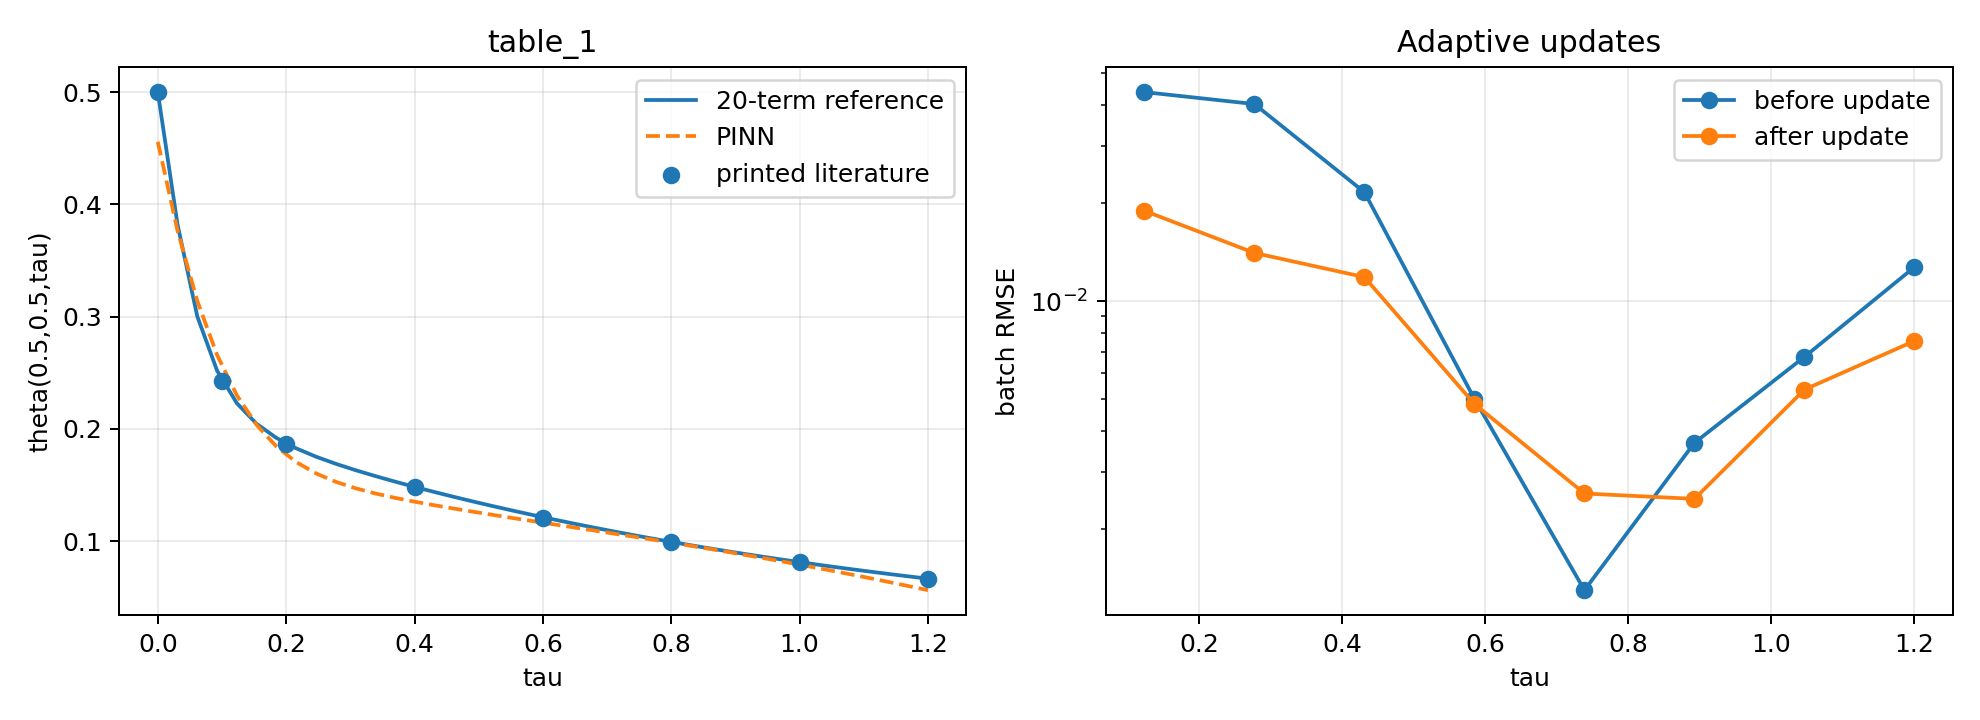
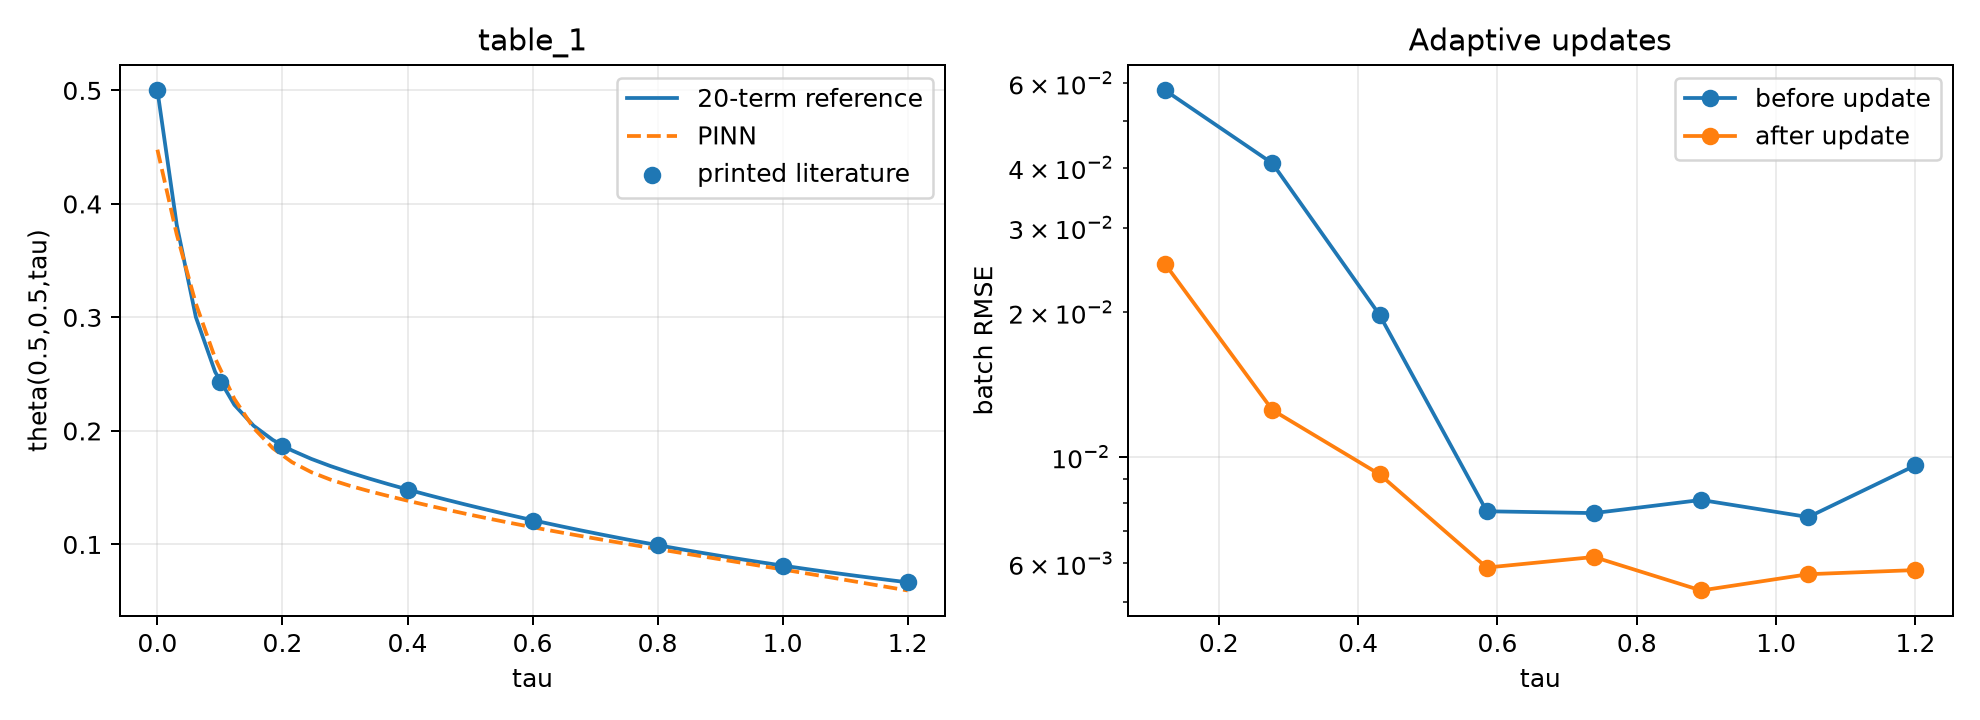
Add adaptive sensor and error comparison graphs

diff --git a/DeepXDE_1D/online_heat_pinn.py b/DeepXDE_1D/online_heat_pinn.py
@@ -22,7 +22,7 @@ import numpy as np
 
 
 DEFAULT_REFERENCE_DIR = Path(
-    r"C:\Users\jblec\Technion\Spring_2026\Machine Learning\Project\Paper-result\mdpi_416_tables"
+    r"C:\Users\jblec\Technion\Spring_2026\Machine Learning\Project\Literature_result\mdpi_416_tables"
 )
 
 # Paper cases: eta_i(tau) = exp(-d_i tau).
@@ -178,6 +178,7 @@ def train_adaptively(cfg: Config, assimilation_points, assimilation_values):
         iterations=cfg.baseline_iterations,
         display_every=max(1, cfg.baseline_iterations // 5),
     )
+    baseline_prediction = model.predict(assimilation_points)
 
     history = []
     batches = np.array_split(
@@ -214,7 +215,7 @@ def train_adaptively(cfg: Config, assimilation_points, assimilation_values):
             f"update {update:02d}, tau={new_points[-1, 2]:.4f}: "
             f"RMSE {before_rmse:.6g} -> {after_rmse:.6g}"
         )
-    return model, history
+    return model, history, baseline_prediction
 
 
 def save_results(
@@ -223,6 +224,7 @@ def save_results(
     history,
     assimilation_points,
     assimilation_values,
+    baseline_prediction,
     literature_points,
     literature_values,
     output_dir: Path,
@@ -232,6 +234,20 @@ def save_results(
     literature_prediction = model.predict(literature_points)
     literature_rmse = rmse(literature_values, literature_prediction)
 
+    np.savetxt(
+        output_dir / "baseline_vs_adaptive_center.csv",
+        np.column_stack(
+            (
+                assimilation_points[:, 2],
+                assimilation_values[:, 0],
+                baseline_prediction[:, 0],
+                assimilation_prediction[:, 0],
+            )
+        ),
+        delimiter=",",
+        header="tau,reference_theta,baseline_pinn_theta,adaptive_pinn_theta",
+        comments="",
+    )
     np.savetxt(
         output_dir / "literature_vs_pinn.csv",
         np.column_stack(
@@ -287,6 +303,69 @@ def save_results(
     fig.tight_layout()
     fig.savefig(output_dir / "paper_reference_comparison.png", dpi=180)
     plt.close(fig)
+
+    # Figure analogous to the streaming-sensor map. The background is the
+    # adaptive PINN slice at Y=0.5; reference observations exist only at X=0.5.
+    x_grid = np.linspace(0.0, 1.0, 161)
+    tau_grid = np.linspace(0.0, 1.2, 161)
+    xx, tt = np.meshgrid(x_grid, tau_grid)
+    slice_points = np.column_stack(
+        (xx.ravel(), np.full(xx.size, 0.5), tt.ravel())
+    )
+    theta_slice = model.predict(slice_points).reshape(xx.shape)
+    fig, ax = plt.subplots(figsize=(8.5, 5.2))
+    image = ax.contourf(xx, tt, theta_slice, levels=40, cmap="magma")
+    colorbar = fig.colorbar(image, ax=ax)
+    colorbar.set_label("Adaptive PINN theta at Y=0.5")
+    batches = np.array_split(
+        np.arange(len(assimilation_points)),
+        int(np.ceil(len(assimilation_points) / cfg.points_per_update)),
+    )
+    colors = plt.get_cmap("tab10")(np.linspace(0.0, 0.9, len(batches)))
+    for index, batch in enumerate(batches, start=1):
+        ax.scatter(
+            assimilation_points[batch, 0],
+            assimilation_points[batch, 2],
+            s=28,
+            color=colors[index - 1],
+            edgecolor="white",
+            linewidth=0.35,
+            label=f"window {index}",
+            zorder=3,
+        )
+    ax.set(
+        xlabel="Nondimensional coordinate X",
+        ylabel="Nondimensional time tau",
+        title="Streaming center-sensor windows over the adaptive PINN slice",
+        xlim=(0.0, 1.0),
+        ylim=(0.0, 1.2),
+    )
+    ax.legend(ncol=2, fontsize=8, loc="upper right")
+    fig.tight_layout()
+    fig.savefig(output_dir / "streaming_sensor_windows.png", dpi=180)
+    plt.close(fig)
+
+    # The paper supplies reference truth only at its center point. Plot honest
+    # center-point error histories instead of implying a full error field.
+    baseline_error = np.abs(baseline_prediction[:, 0] - assimilation_values[:, 0])
+    adaptive_error = np.abs(assimilation_prediction[:, 0] - assimilation_values[:, 0])
+    improvement = baseline_error - adaptive_error
+    fig, axes = plt.subplots(1, 3, figsize=(13, 4), sharex=True)
+    panels = (
+        (baseline_error, "Offline PINN absolute error", "tab:red"),
+        (adaptive_error, "Adaptive PINN absolute error", "tab:blue"),
+        (improvement, "|baseline error| - |adaptive error|", "tab:green"),
+    )
+    for ax, (values, title, color) in zip(axes, panels):
+        ax.axhline(0.0, color="0.5", linewidth=0.8)
+        ax.plot(assimilation_points[:, 2], values, "o-", markersize=3, color=color)
+        ax.set(xlabel="tau", title=title)
+        ax.grid(alpha=0.25)
+    axes[0].set_ylabel("Absolute theta error")
+    axes[2].set_ylabel("Positive means adaptation helped")
+    fig.tight_layout()
+    fig.savefig(output_dir / "baseline_adaptive_error_comparison.png", dpi=180)
+    plt.close(fig)
     print(f"Literature vs PINN RMSE ({cfg.case}): {literature_rmse:.8g}")
 
 
@@ -307,8 +386,18 @@ def main():
 
     cfg = Config(case=args.case)
     data = load_paper_data(args.reference_dir, cfg.case)
-    model, history = train_adaptively(cfg, data[0], data[1])
-    save_results(model, cfg, history, *data, args.output_dir)
+    model, history, baseline_prediction = train_adaptively(cfg, data[0], data[1])
+    save_results(
+        model,
+        cfg,
+        history,
+        data[0],
+        data[1],
+        baseline_prediction,
+        data[2],
+        data[3],
+        args.output_dir,
+    )
 
 
 if __name__ == "__main__":

diff --git a/DeepXDE_1D/README.md b/DeepXDE_1D/README.md
@@ -12,7 +12,7 @@ This folder contains the DeepXDE implementation and its dependencies.
 The script reads the reference CSV files without modifying them from:
 
 ```text
-C:\Users\jblec\Technion\Spring_2026\Machine Learning\Project\Paper-result\mdpi_416_tables
+C:\Users\jblec\Technion\Spring_2026\Machine Learning\Project\Literature_result\mdpi_416_tables
 ```
 
 - `table_N_40_times.csv`: 40 center-point values used for sequential adaptation.
@@ -40,8 +40,11 @@ After training, the following files are written under the `results/` folder
 beside `online_heat_pinn.py`, regardless of the terminal working directory:
 
 - `literature_vs_pinn.csv`
+- `baseline_vs_adaptive_center.csv`
 - `literature_pinn_metrics.json`
 - `paper_reference_comparison.png`
+- `streaming_sensor_windows.png`
+- `baseline_adaptive_error_comparison.png`
 
 The JSON file records
 